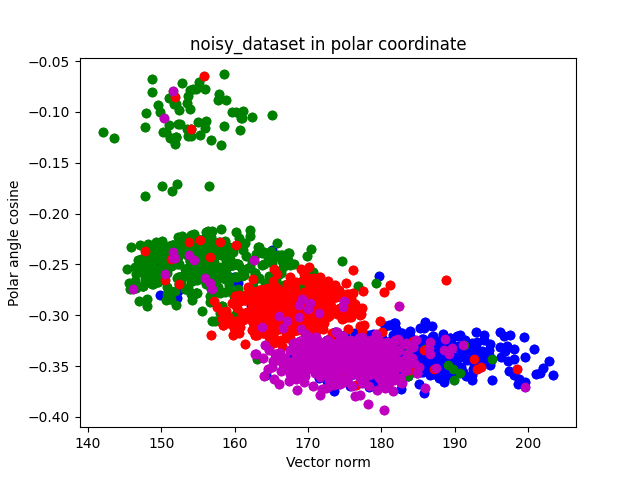
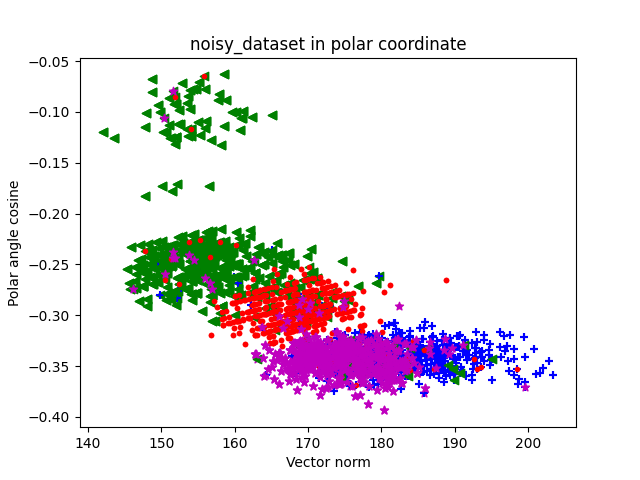
change scatter plot marker

diff --git a/visualization.py b/visualization.py
@@ -10,6 +10,7 @@ class Wifi_Visualizer:
         self.all_data = decision.all_data
         self.ref_vector = np.array([1]+[0 for i in range(self.attr-1)])
         self.colors = ['b', 'g', 'r', 'm']
+        self.markers = ["+", "<", ".", "*"]
     
     def polar_coord(self, row): # transform each row of dataset to 2D polar coordinate
         d = 0
@@ -31,7 +32,7 @@ class Wifi_Visualizer:
         plt.xlabel("Vector norm")
         plt.ylabel("Polar angle cosine")
         for i in range(4):
-            plt.scatter(ds[i], angs[i], c=self.colors[i])
+            plt.scatter(ds[i], angs[i], c=self.colors[i], marker=self.markers[i])
         plt.savefig(fn)
         return fn+".png"
 
